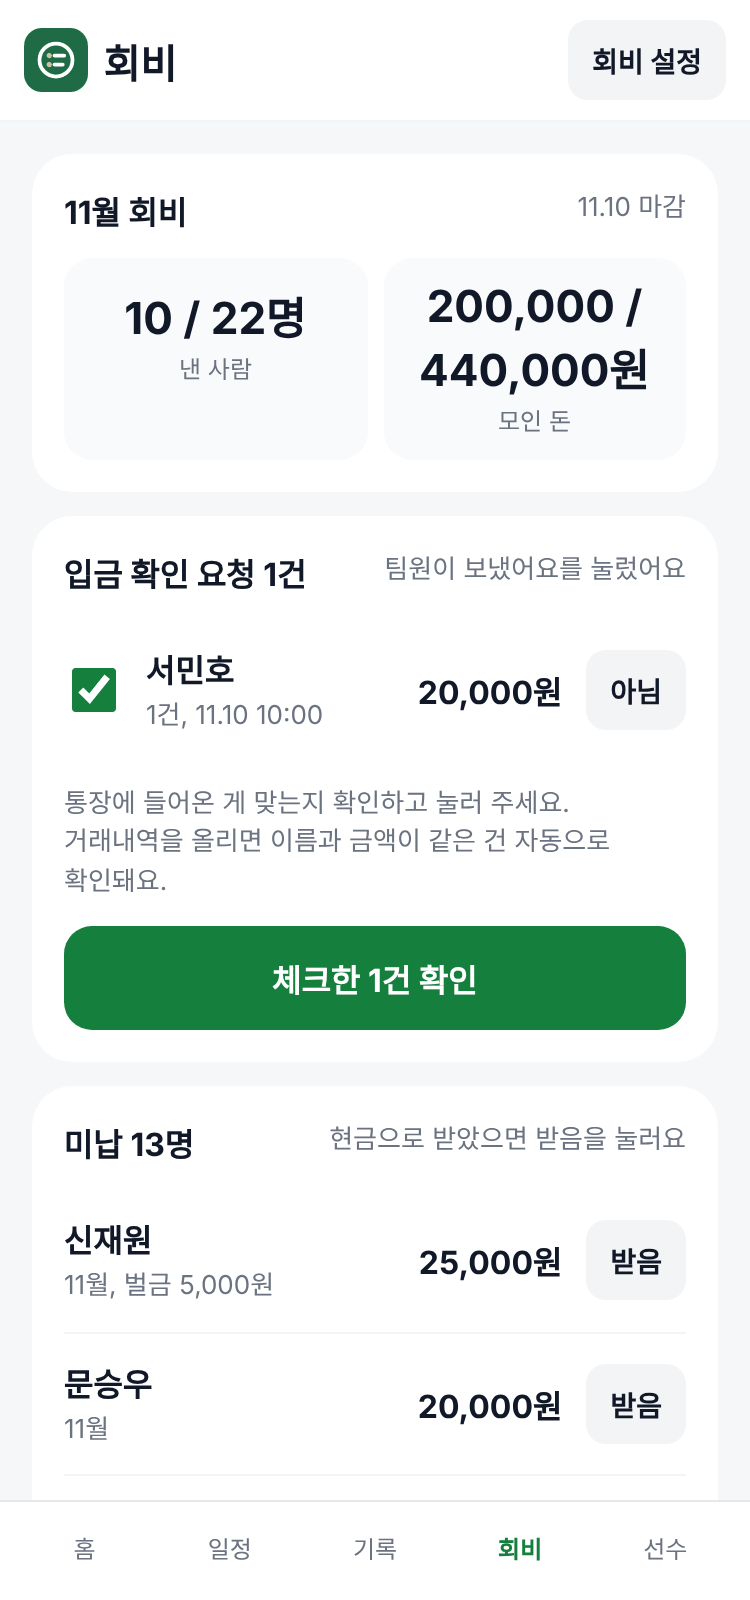
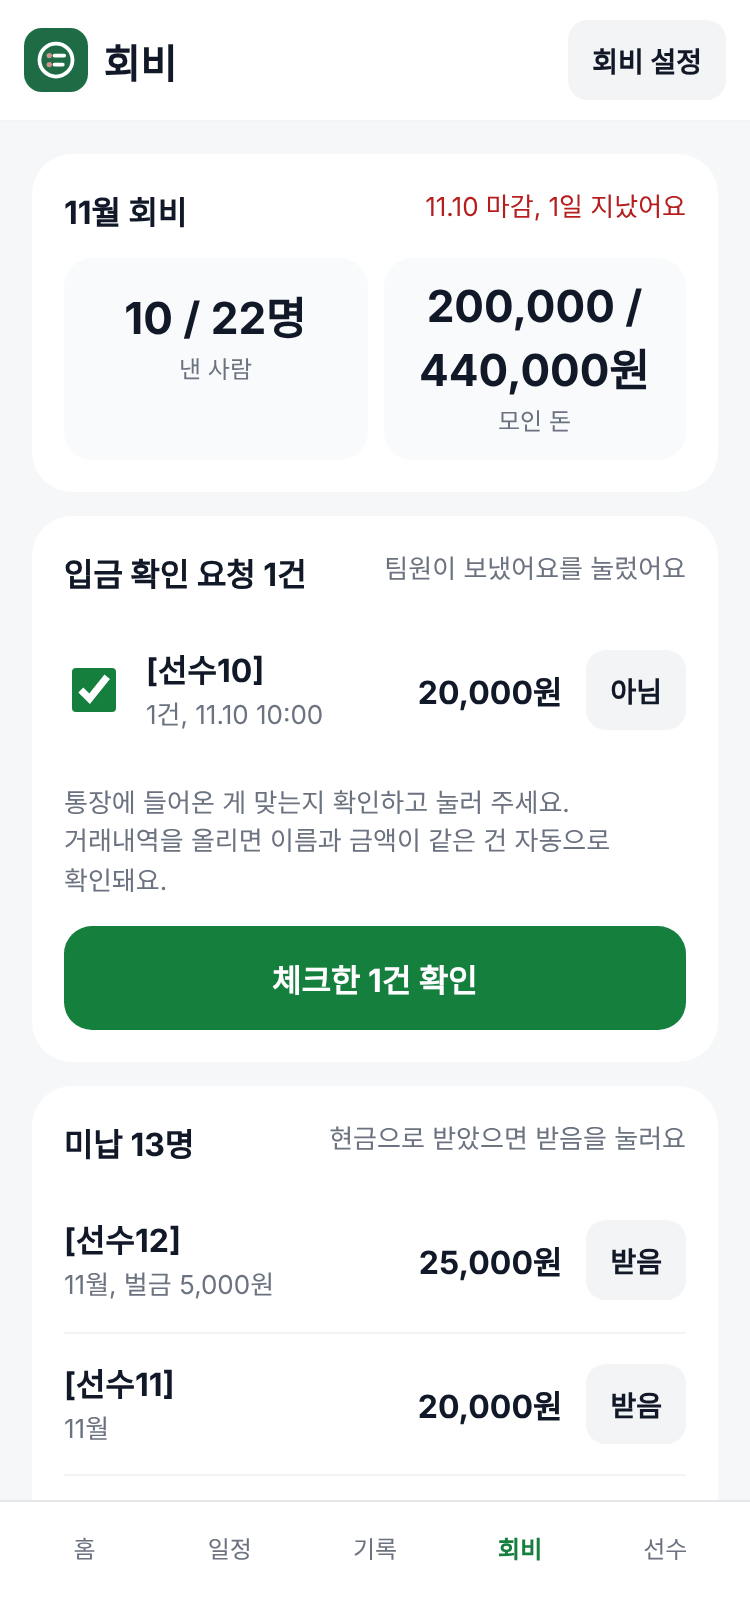
홈페이지 사진을 가상 이름([선수1] 등), 가상 팀([상대팀A] 등), 가상 구장으로 다시 찍음. 동그라미 글자는 기호를 건너뛰고, 라인업은 등번호로 표시
Claude-Session: https://claude.ai/code/session_016quS1fhVgtMJVUxVg1GyD3

diff --git a/v2/team/admin.js b/v2/team/admin.js
@@ -1,6 +1,6 @@
 // 운영진 화면: 디자인 시안 [운영진] 1-1 ~ 5-9. 팀원 화면은 member.js에 있다.
 import { mCalendar } from "./member.js";
-import { $, D, KIT, LOGO, POS, ROLE, S, UI, att, cameTo, closeSheet, closeText, confirmBox, dotDate, esc, evName, evStart, eventCard, fail, feeMode, finesOf, guestReqs, guestsOf, isAdmin, isPlay, jersey, joinedOf, lateRow, mLabel, md, momClosed, momDeadline, momOpen, momWinners, monthsList, myProfile, myUv, myVote, nameOf, nav, noticeCard, noticesList, paidOf, parseRoster, past, patchDoc, people, refreshMembers, remindInfo, render, ruleAmt, sb, scrimReady, setDoc, sheet, sport, started, syncMyDues, toast, todayStr, top, uid36, unclaimed, upcoming, voteRow, voteState, wd, won, ym } from "./main.js";
+import { $, D, KIT, LOGO, POS, ROLE, S, UI, att, cameTo, closeSheet, closeText, confirmBox, dotDate, esc, evName, evStart, eventCard, fail, feeMode, finesOf, guestReqs, guestsOf, ini, isAdmin, isPlay, jersey, joinedOf, lateRow, mLabel, md, momClosed, momDeadline, momOpen, momWinners, monthsList, myProfile, myUv, myVote, nameOf, nav, noticeCard, noticesList, paidOf, parseRoster, past, patchDoc, people, refreshMembers, remindInfo, render, ruleAmt, sb, scrimReady, setDoc, sheet, sport, started, syncMyDues, toast, todayStr, top, uid36, unclaimed, upcoming, voteRow, voteState, wd, won, ym } from "./main.js";
 
 function homeExtras() {
   const out = [];
@@ -145,16 +145,16 @@ function vPlayers() {
   const dueTag = u => { const o = owedOf(u); return o.months > 1 ? `<span class="tag" style="background:#FEF2F2;color:#B91C1C">${o.months}달 미납</span>` : o.months ? `<span class="tag" style="background:#FEF2F2;color:#B91C1C">${Number(ym().slice(5))}월 미납</span>` : ""; };
   const admins = ps.filter(x => x.role !== "member").sort((a, b) => (a.role === "owner" ? -1 : 1) - (b.role === "owner" ? -1 : 1));
   const num = x => Number(x) || 999; const mem = ps.filter(x => x.role === "member").sort((a, b) => num(a.p.num) - num(b.p.num));
-  const row = x => `<a class="li" href="#/player/${esc(x.uid)}" style="text-decoration:none;color:inherit"><span class="av">${esc(x.name.slice(0, 1))}</span><span style="flex:1;min-width:0"><b>${esc(x.name)}</b> ${x.role !== "member" ? `<span class="tag">${ROLE[x.role]}</span>` : ""} ${dueTag(x.uid)}${x.uid === S.uid ? ` <span class="hint">나</span>` : ""}<br><span class="hint">${esc([x.p.num ? x.p.num + "번" : "", x.p.pos1, "출석 " + attN(x.uid) + "/" + evs.length].filter(Boolean).join(", "))}</span></span><span class="hint">›</span></a>`;
+  const row = x => `<a class="li" href="#/player/${esc(x.uid)}" style="text-decoration:none;color:inherit"><span class="av">${esc(ini(x.name))}</span><span style="flex:1;min-width:0"><b>${esc(x.name)}</b> ${x.role !== "member" ? `<span class="tag">${ROLE[x.role]}</span>` : ""} ${dueTag(x.uid)}${x.uid === S.uid ? ` <span class="hint">나</span>` : ""}<br><span class="hint">${esc([x.p.num ? x.p.num + "번" : "", x.p.pos1, "출석 " + attN(x.uid) + "/" + evs.length].filter(Boolean).join(", "))}</span></span><span class="hint">›</span></a>`;
   const posReqs = ps.filter(x => ((S.rsvp[x.uid] || {}).posReq || {}).status === "req"); const admReqs = S.role === "owner" ? S.members.filter(m => m.admin_req && m.role === "member") : [];
   const rules = S.settings.rules || []; const un = unclaimed();
   return `<header class="top" style="padding:10px 12px">${LOGO(32)}<h1 style="font-size:20px;font-weight:900">선수</h1><a class="btn sm pri" href="#/invite">+ 초대</a></header><div class="body">
     ${tilesA([tileA(ps.length + un.length + "명", "전체"), tileA(admins.length + "명", "운영진"), tileA(low.length + "명", "출석 절반 이하", "#B45309")])}
     <a class="card" href="#/uniform" style="text-decoration:none;color:inherit;flex-direction:row;align-items:center;gap:14px">${jersey(64, (myProfile() || {}).num || "7", S.settings.uniformColor)}<span style="flex:1"><b>팀 유니폼</b><br><span class="hint">팀원 선수 카드에 등번호와 같이 보여요</span></span><span class="btn sm">바꾸기</span></a>
-    ${posReqs.length + admReqs.length ? `<div class="card"><b>요청 ${posReqs.length + admReqs.length}건</b>${posReqs.map(x => { const r = S.rsvp[x.uid].posReq; return `<div style="display:flex;flex-direction:column;gap:8px;border-top:1px solid #F3F4F6;padding-top:10px"><div class="row" style="gap:10px"><span class="av">${esc(x.name.slice(0, 1))}</span><span style="flex:1"><b>${esc(x.name)}</b> <span class="hint">포지션 변경 요청</span><br><span class="hint">${esc((x.p.pos1 || "-") + "에서 " + [r.pos1, r.pos2].filter(Boolean).join(", ") + (r.note ? ", " + r.note : ""))}</span></span></div><div class="row"><button class="btn block" data-act="posNo" data-u="${esc(x.uid)}">거절</button><button class="btn pri block" data-act="posOk" data-u="${esc(x.uid)}">수락</button></div></div>`; }).join("")}${admReqs.map(m => `<div style="display:flex;flex-direction:column;gap:8px;border-top:1px solid #F3F4F6;padding-top:10px"><div class="row" style="gap:10px"><span class="av">${esc(nameOf(m.user_id).slice(0, 1))}</span><span style="flex:1"><b>${esc(nameOf(m.user_id))}</b> <span class="hint">운영진 신청</span><br><span class="hint">팀장만 수락할 수 있어요</span></span></div><div class="row"><button class="btn block" data-act="adminAns" data-u="${esc(m.user_id)}" data-ok="">거절</button><button class="btn pri block" data-act="adminAns" data-u="${esc(m.user_id)}" data-ok="1">수락</button></div></div>`).join("")}</div>` : ""}
+    ${posReqs.length + admReqs.length ? `<div class="card"><b>요청 ${posReqs.length + admReqs.length}건</b>${posReqs.map(x => { const r = S.rsvp[x.uid].posReq; return `<div style="display:flex;flex-direction:column;gap:8px;border-top:1px solid #F3F4F6;padding-top:10px"><div class="row" style="gap:10px"><span class="av">${esc(ini(x.name))}</span><span style="flex:1"><b>${esc(x.name)}</b> <span class="hint">포지션 변경 요청</span><br><span class="hint">${esc((x.p.pos1 || "-") + "에서 " + [r.pos1, r.pos2].filter(Boolean).join(", ") + (r.note ? ", " + r.note : ""))}</span></span></div><div class="row"><button class="btn block" data-act="posNo" data-u="${esc(x.uid)}">거절</button><button class="btn pri block" data-act="posOk" data-u="${esc(x.uid)}">수락</button></div></div>`; }).join("")}${admReqs.map(m => `<div style="display:flex;flex-direction:column;gap:8px;border-top:1px solid #F3F4F6;padding-top:10px"><div class="row" style="gap:10px"><span class="av">${esc(ini(nameOf(m.user_id)))}</span><span style="flex:1"><b>${esc(nameOf(m.user_id))}</b> <span class="hint">운영진 신청</span><br><span class="hint">팀장만 수락할 수 있어요</span></span></div><div class="row"><button class="btn block" data-act="adminAns" data-u="${esc(m.user_id)}" data-ok="">거절</button><button class="btn pri block" data-act="adminAns" data-u="${esc(m.user_id)}" data-ok="1">수락</button></div></div>`).join("")}</div>` : ""}
     <div class="card"><div class="spread"><b>운영진 ${admins.length}명</b></div><div class="list">${admins.map(row).join("")}</div></div>
     <div class="card"><div class="spread"><b>팀원 ${mem.length}명</b></div><div class="list">${mem.map(row).join("")}</div></div>
-    ${un.length ? `<div class="card"><div class="spread"><b>가입 전 ${un.length}명</b><span class="hint">초대 링크로 들어와 이름을 고르면 연결돼요</span></div><div class="list">${un.map(p => `<div class="li" data-act="rosterOpen" data-pid="${esc(p.id)}" role="button" tabindex="0" style="cursor:pointer"><span class="av" style="background:#F3F4F6;color:#6B7280">${esc(p.name.slice(0, 1))}</span><span style="flex:1"><b>${esc(p.name)}</b><br><span class="hint">${esc([p.num ? p.num + "번" : "", p.pos1, p.pos2].filter(Boolean).join(", "))}</span></span><span class="tag gray">가입 전</span></div>`).join("")}</div></div>` : ""}
+    ${un.length ? `<div class="card"><div class="spread"><b>가입 전 ${un.length}명</b><span class="hint">초대 링크로 들어와 이름을 고르면 연결돼요</span></div><div class="list">${un.map(p => `<div class="li" data-act="rosterOpen" data-pid="${esc(p.id)}" role="button" tabindex="0" style="cursor:pointer"><span class="av" style="background:#F3F4F6;color:#6B7280">${esc(ini(p.name))}</span><span style="flex:1"><b>${esc(p.name)}</b><br><span class="hint">${esc([p.num ? p.num + "번" : "", p.pos1, p.pos2].filter(Boolean).join(", "))}</span></span><span class="tag gray">가입 전</span></div>`).join("")}</div></div>` : ""}
     <a class="btn" href="#/roster-import">명단 붙여 넣어 한 번에 등록</a>
     <div class="card"><div class="spread"><b>우리 팀 수칙</b><a class="btn sm" href="#/rules-edit">수정</a></div>${rules.length ? `<div class="list">${rules.map(r => `<div class="li"><span style="flex:1">${esc(r.label)}</span>${Number(r.amount) ? `<b>${won(r.amount)}</b>` : `<span class="hint">글 수칙</span>`}</div>`).join("")}</div>` : `<span class="hint">아직 정한 수칙이 없어요.</span>`}</div>
     <div class="card"><div class="row" style="justify-content:space-between"><a class="btn sm" href="#/settings">팀 설정</a><span class="row"><button class="btn sm" data-act="switchTeam">다른 팀, 새 팀</button><button class="btn sm" data-act="logout">로그아웃</button></span></div><a class="hint" href="../../privacy.html">개인정보처리방침과 이용약관</a></div>
@@ -397,7 +397,7 @@ function vGuests(id) {
   return `${top("용병 신청", "#/event/" + id)}<div class="body">
     <div class="card"><div class="spread"><span><b>${esc(md(e.date) + " " + wd(e.date) + " " + (e.time || "") + " " + evName(e))}</b></span>${left != null ? `<span class="tag ${left ? "" : "gray"}">남은 자리 ${left}</span>` : ""}</div></div>
     <b>확인할 신청 ${reqs.filter(g => g.status === "req").length}건</b>
-    ${reqs.filter(g => g.status === "req").map(g => `<div class="card"><div class="row" style="gap:12px"><span class="av">${esc(g.name.slice(0, 1))}</span><span style="flex:1"><b>${esc(g.name)}</b> <span class="tag gray">용병</span><br><span class="hint">${esc([nameOf(g.u) + " 신청", g.rel, g.pos, ago(g.at)].filter(Boolean).join(", "))}</span></span></div><div class="row"><button class="btn block" data-act="guestNo" data-u="${esc(g.u)}" data-k="${esc(g.k)}">거절</button><button class="btn pri block" data-act="guestOk" data-eid="${esc(e.id)}" data-u="${esc(g.u)}" data-k="${esc(g.k)}">수락</button></div></div>`).join("") || `<div class="card empty"><b>확인할 신청이 없어요</b></div>`}
+    ${reqs.filter(g => g.status === "req").map(g => `<div class="card"><div class="row" style="gap:12px"><span class="av">${esc(ini(g.name))}</span><span style="flex:1"><b>${esc(g.name)}</b> <span class="tag gray">용병</span><br><span class="hint">${esc([nameOf(g.u) + " 신청", g.rel, g.pos, ago(g.at)].filter(Boolean).join(", "))}</span></span></div><div class="row"><button class="btn block" data-act="guestNo" data-u="${esc(g.u)}" data-k="${esc(g.k)}">거절</button><button class="btn pri block" data-act="guestOk" data-eid="${esc(e.id)}" data-u="${esc(g.u)}" data-k="${esc(g.k)}">수락</button></div></div>`).join("") || `<div class="card empty"><b>확인할 신청이 없어요</b></div>`}
     ${gs.length ? `<div class="card"><div class="spread"><b>명단에 든 용병</b><span class="hint">${gs.length}명</span></div><div class="list">${gs.map(g => `<div class="li"><span style="flex:1"><b>${esc(g.name)}</b><br><span class="hint">${esc([g.pos, g.by ? nameOf(g.by) + " 지인" : "운영진 추가"].filter(Boolean).join(", "))}</span></span><button class="iconbtn" data-act="guestDel" data-eid="${esc(e.id)}" data-g="${esc(g.id)}" aria-label="빼기">✕</button></div>`).join("")}</div></div>` : ""}
     <span class="hint">수락하면 참석 명단에 용병으로 들어가고 신청한 팀원 알림함에 보여요.${fee ? ` 참가비 ${won(fee)}은 현장 출석에서 받아요.` : ""}</span>
     <button class="btn" data-act="aGuestAdd" data-eid="${esc(e.id)}">운영진이 직접 추가하기</button>
@@ -571,7 +571,7 @@ function vPlayerAdmin(u) {
   const o = owedOf(u); const j = joinedOf(u); const owner = S.role === "owner";
   const hist = []; if (feeMode() === "monthly") monthsList().slice(0, 4).forEach(m => hist.push([mLabel(m) + " 회비", paidOf("m-" + m, u)])); finesOf(u).slice(0, 4).forEach(f => hist.push([(f.reason || "벌금") + " 벌금 " + md(f.date || todayStr()), !!f.paid]));
   return `${top("선수 정보", "#/players")}<div class="body">
-    <div class="card" style="align-items:center;text-align:center"><span class="av" style="width:72px;height:72px;font-size:28px">${esc(x.name.slice(0, 1))}</span><b style="font-size:22px">${esc(x.name)} <span class="tag">${ROLE[x.role]}</span></b>${o.months ? `<span class="tag" style="background:#FEF2F2;color:#B91C1C">${o.months > 1 ? o.months + "달" : Number(ym().slice(5)) + "월"} 미납</span>` : ""}<span class="hint">${esc([x.p.num ? x.p.num + "번" : "", x.p.pos1, x.p.foot].filter(Boolean).join(", "))}</span>${j ? `<span class="hint">${j.slice(0, 4)}년 ${Number(j.slice(5, 7))}월에 들어왔어요</span>` : ""}</div>
+    <div class="card" style="align-items:center;text-align:center"><span class="av" style="width:72px;height:72px;font-size:28px">${esc(ini(x.name))}</span><b style="font-size:22px">${esc(x.name)} <span class="tag">${ROLE[x.role]}</span></b>${o.months ? `<span class="tag" style="background:#FEF2F2;color:#B91C1C">${o.months > 1 ? o.months + "달" : Number(ym().slice(5)) + "월"} 미납</span>` : ""}<span class="hint">${esc([x.p.num ? x.p.num + "번" : "", x.p.pos1, x.p.foot].filter(Boolean).join(", "))}</span>${j ? `<span class="hint">${j.slice(0, 4)}년 ${Number(j.slice(5, 7))}월에 들어왔어요</span>` : ""}</div>
     <div class="card"><div class="spread"><b>이번 시즌</b><a class="hint" href="#/records" style="text-decoration:none">기록 보기 ›</a></div>${tilesA([tileA(n + "/" + evs.length, "출석"), tileA(late, "지각", "#B45309"), tileA(abs, "무단 결석", "#B91C1C")])}${streak >= 3 ? `<span class="hint" style="color:#B45309">최근 ${streak}번 연속 불참이에요</span>` : ""}</div>
     <div class="card"><div class="spread"><b>회비와 벌금</b><a class="hint" href="#/dues" style="text-decoration:none">회비에서 보기 ›</a></div>${hist.length ? `<div class="list">${hist.map(([l, p]) => `<div class="li"><span style="flex:1">${esc(l)}</span><span class="tag ${p ? "" : "gray"}" style="${p ? "" : "background:#FEF2F2;color:#B91C1C"}">${p ? "납부" : "미납"}</span></div>`).join("")}</div>` : `<span class="hint">기록이 없어요.</span>`}${o.total ? `<div class="spread"><span>밀린 돈</span><b style="color:#B91C1C">${won(o.total)}</b></div><button class="btn sm" data-act="aCash" data-u="${esc(u)}" style="align-self:flex-start">현금으로 받음</button>` : ""}</div>
     <div class="card"><b>포지션</b><div class="field"><span class="hint">1선호</span><div class="chips">${POS[sport()].map(p => `<button class="chip sm ${x.p.pos1 === p ? "on" : ""}" data-act="aSetPos" data-u="${esc(u)}" data-k="pos1" data-v="${p}">${p}</button>`).join("")}</div></div><div class="field"><span class="hint">2선호</span><div class="chips">${POS[sport()].filter(p => p !== x.p.pos1).map(p => `<button class="chip sm ${x.p.pos2 === p ? "on" : ""}" data-act="aSetPos" data-u="${esc(u)}" data-k="pos2" data-v="${p}">${p}</button>`).join("")}</div></div><span class="hint">누르면 바로 바뀌고 다음 라인업부터 반영돼요</span></div>

diff --git a/v2/team/member.js b/v2/team/member.js
@@ -1,6 +1,6 @@
 // 팀원 화면: 디자인 시안 [팀원] 1-1 ~ 5-5를 그대로 따른다. 운영진 기능은 이 파일에 두지 않는다.
 // 운영진도 "팀원 화면 보기"를 누르면 이 화면으로 자기 참석과 선수 카드를 본다.
-import { $, D, LOGO, POS, QN, ROLE, S, UI, att, cameTo, closeSheet, closeText, confirmBox, esc, evName, evStart, fail, feeMode, guestReqs, guestsOf, isAdmin, isPlay, jersey, joinedOf, mLabel, md, momClosed, momDeadline, momOpen, momWinners, myProfile, myUv, myVote, nameOf, nav, noticesList, past, patchDoc, people, qs, remindInfo, render, ruleKind, sb, setView, sheet, sport, started, toast, todayStr, top, uid36, unclaimed, upcoming, voteState, wd, won, ym } from "./main.js";
+import { $, D, LOGO, POS, QN, ROLE, S, UI, att, cameTo, closeSheet, closeText, confirmBox, esc, evName, evStart, fail, feeMode, guestReqs, guestsOf, ini, isAdmin, isPlay, jersey, joinedOf, mLabel, md, momClosed, momDeadline, momOpen, momWinners, myProfile, myUv, myVote, nameOf, nav, noticesList, past, patchDoc, people, qs, remindInfo, render, ruleKind, sb, setView, sheet, sport, started, toast, todayStr, top, uid36, unclaimed, upcoming, voteState, wd, won, ym } from "./main.js";
 
 /* ---------- 공통 계산 ---------- */
 const MU = { cal: false, day: "", change: "", season: "", filter: "all" };
@@ -253,7 +253,7 @@ function mGame(id) {
   return `${top(md(e.date) + " " + evName(e), "#/records")}<div class="body">
     <div class="card" style="align-items:center;text-align:center;gap:8px">${typeTag(e)}<span class="hint">${esc(md(e.date) + " " + wd(e.date) + ", " + (e.place || ""))}</span>
       ${e.score ? `<div style="display:grid;grid-template-columns:1fr auto 1fr;align-items:center;gap:8px;width:100%"><b style="text-align:right">${e.type === "scrim" ? "A팀" + (sideOf(e, u) === "A" ? " (내 팀)" : "") : esc(S.team.name)}</b><b style="font-size:40px;letter-spacing:-1px">${e.score.us} : ${e.score.them}</b><b style="text-align:left">${e.type === "scrim" ? "B팀" + (sideOf(e, u) === "B" ? " (내 팀)" : "") : esc(e.opponent || "상대")}</b></div><span class="tag" style="font-size:13px">${resultWord(e)}</span>` : isPlay(e) ? `<b>결과를 기다리고 있어요</b><span class="hint">운영진이 결과를 올리면 MOM 투표가 열리고 알림으로 알려 드려요</span>` : `<b>훈련</b>`}</div>
-    ${win.length ? `<div class="card" style="flex-direction:row;align-items:center;gap:12px"><span class="av" style="background:#FEF3C7;color:#B45309">${esc(nameOf(win[0]).slice(0, 1))}</span><span style="flex:1"><span class="hint">MOM</span><br><b style="font-size:18px">${win.map(x => esc(nameOf(x))).join(", ")}</b></span><span class="hint">${came.length}명 중 ${(t.c || {})[win[0]] || 0}표</span></div>` : ""}
+    ${win.length ? `<div class="card" style="flex-direction:row;align-items:center;gap:12px"><span class="av" style="background:#FEF3C7;color:#B45309">${esc(ini(nameOf(win[0])))}</span><span style="flex:1"><span class="hint">MOM</span><br><b style="font-size:18px">${win.map(x => esc(nameOf(x))).join(", ")}</b></span><span class="hint">${came.length}명 중 ${(t.c || {})[win[0]] || 0}표</span></div>` : ""}
     ${momOpen(e) && iCame ? (my ? `<div class="card"><b>MOM 투표를 냈어요</b><span class="hint">다음 날 12시에 마감돼요. 결과는 마감 뒤에 보여요.</span></div>` : `<div class="card"><b>오늘의 MOM을 골라 주세요</b><span class="hint">익명이에요. 한 번 내면 바꿀 수 없어요.</span><div class="chips">${came.filter(x => x.uid !== u).map(x => `<button class="chip ${UI.mom === x.uid ? "on" : ""}" data-act="momPick" data-u="${esc(x.uid)}">${esc(x.name)}</button>`).join("")}</div><button class="btn pri" data-act="momSend" data-eid="${esc(e.id)}" ${UI.mom ? "" : "disabled"}>투표하기</button></div>`) : ""}
     ${iCame ? `<div class="card"><b>내 기록</b><span class="chips" style="gap:6px">${[chipT(myQ.length ? "출전 " + myQ.length + "쿼터" : "출석"), goals[u] ? chipT(goals[u] + "골", "green") : "", chipT(late ? "지각" : "정시 도착", late ? "amber" : "green"), chipT(fine ? "벌금 " + won(fine.amount) + (fine.paid ? " 납부" : " 미납") : "벌금 없음", fine && !fine.paid ? "amber" : "green")].join("")}</span>
       ${isPlay(e) ? `<span class="lab">쿼터별 출전</span><div style="display:grid;grid-template-columns:repeat(${qn},minmax(0,1fr));gap:4px">${Array.from({ length: qn }, (_, i) => i + 1).map(k => `<span style="text-align:center;border-radius:8px;padding:8px 0;font-size:13px;font-weight:700;${myQ.includes(k) ? "background:#15803D;color:#FFFFFF" : "background:#F3F4F6;color:#9CA3AF"}">${k}Q</span>`).join("")}</div>${e.lineup ? "" : `<span class="hint">라인업이 없는 경기라 쿼터 기록이 없어요</span>`}` : ""}</div>`
@@ -313,11 +313,11 @@ function mPlayers() {
   const me = myProfile() || {}; const st = myStats(S.uid, todayStr().slice(0, 4)); const req = (S.rsvp[S.uid] || {}).posReq;
   const ps = people(); const admins = ps.filter(x => x.role !== "member"); const mem = ps.filter(x => x.role === "member").map(x => ({ ...x, kind: "m" })).concat(unclaimed().map(p => ({ kind: "p", uid: "", pid: p.id, name: p.name, role: "member", p })));
   const num = x => Number(x) || 999; mem.sort((a, b) => num(a.p.num) - num(b.p.num)); admins.sort((a, b) => (a.role === "owner" ? -1 : 0) - (b.role === "owner" ? -1 : 0));
-  const row = x => x.kind === "p" ? `<div class="li"><span class="av" style="background:#F3F4F6;color:#6B7280">${esc(x.name.slice(0, 1))}</span><span style="flex:1"><b>${esc(x.name)}</b><br><span class="hint">${esc([x.p.num ? x.p.num + "번" : "", x.p.pos1].filter(Boolean).join(", "))}</span></span><span class="tag gray">가입 전</span></div>`
-    : `<a class="li" href="#/player/${esc(x.uid)}" style="text-decoration:none;color:inherit"><span class="av">${esc(x.name.slice(0, 1))}</span><span style="flex:1"><b>${esc(x.name)}</b>${x.uid === S.uid ? ` <span class="hint">나</span>` : ""}${x.role !== "member" ? ` <span class="tag">${ROLE[x.role]}</span>` : ""}<br><span class="hint">${esc([x.p.num ? x.p.num + "번" : "", x.p.pos1, x.p.foot].filter(Boolean).join(", "))}</span></span><span class="hint">›</span></a>`;
+  const row = x => x.kind === "p" ? `<div class="li"><span class="av" style="background:#F3F4F6;color:#6B7280">${esc(ini(x.name))}</span><span style="flex:1"><b>${esc(x.name)}</b><br><span class="hint">${esc([x.p.num ? x.p.num + "번" : "", x.p.pos1].filter(Boolean).join(", "))}</span></span><span class="tag gray">가입 전</span></div>`
+    : `<a class="li" href="#/player/${esc(x.uid)}" style="text-decoration:none;color:inherit"><span class="av">${esc(ini(x.name))}</span><span style="flex:1"><b>${esc(x.name)}</b>${x.uid === S.uid ? ` <span class="hint">나</span>` : ""}${x.role !== "member" ? ` <span class="tag">${ROLE[x.role]}</span>` : ""}<br><span class="hint">${esc([x.p.num ? x.p.num + "번" : "", x.p.pos1, x.p.foot].filter(Boolean).join(", "))}</span></span><span class="hint">›</span></a>`;
   const rules = S.settings.rules || []; const agreed = (S.rsvp[S.uid] || {}).agreedAt;
   return `<header class="top" style="padding:10px 12px">${LOGO(32)}<h1 style="font-size:20px;font-weight:900">선수</h1><span class="hint">${ps.length + unclaimed().length}명</span></header><div class="body">
-    <div class="card"><div class="row" style="gap:12px"><span class="av" style="width:56px;height:56px;font-size:22px">${esc((me.name || nameOf(S.uid)).slice(0, 1))}</span><span style="flex:1"><b style="font-size:18px">${esc(me.name || nameOf(S.uid))}</b> <span class="tag">${ROLE[S.role] || "팀원"}</span><br><span class="hint">${esc([me.num ? me.num + "번" : "", me.pos1, me.foot].filter(Boolean).join(", "))}</span></span></div>
+    <div class="card"><div class="row" style="gap:12px"><span class="av" style="width:56px;height:56px;font-size:22px">${esc(ini(me.name || nameOf(S.uid)))}</span><span style="flex:1"><b style="font-size:18px">${esc(me.name || nameOf(S.uid))}</b> <span class="tag">${ROLE[S.role] || "팀원"}</span><br><span class="hint">${esc([me.num ? me.num + "번" : "", me.pos1, me.foot].filter(Boolean).join(", "))}</span></span></div>
       <div class="stat"><span><b>${st.mine}/${st.n}</b><span>출석</span></span><span><b>${st.goals}골</b><span>이번 시즌</span></span><span><b style="color:#B45309">${st.mom}</b><span>MOM</span></span></div>
       ${req && req.status === "req" ? `<div style="background:#EEF2FF;border-radius:12px;padding:10px 12px;font-size:13px;color:#3730A3"><b>포지션 변경 요청 중</b> ${esc(me.pos1 || "")}에서 ${esc([req.pos1, req.pos2].filter(Boolean).join(", "))}, 운영진 확인 전</div>` : ""}
       <div class="row"><a class="btn block" href="#/me">프로필 수정</a><a class="btn block" href="#/posreq">포지션 변경 요청</a></div>
@@ -333,7 +333,7 @@ function mPlayer(u) {
   const x = people().find(p => p.uid === u); if (!x) return mPlayers(); const st = myStats(u, todayStr().slice(0, 4)); const j = joinedOf(u);
   const recent = seasonEvents(todayStr().slice(0, 4)).filter(isPlay).slice(0, 5);
   return `${top("선수 정보", "#/players")}<div class="body">
-    <div class="card" style="align-items:center;text-align:center"><span class="av" style="width:72px;height:72px;font-size:28px">${esc(x.name.slice(0, 1))}</span><b style="font-size:22px">${esc(x.name)} <span class="tag">${ROLE[x.role]}</span></b><span class="hint">${esc([x.p.num ? x.p.num + "번" : "", x.p.pos1, x.p.pos2, x.p.foot].filter(Boolean).join(", "))}</span>${j ? `<span class="hint">${j.slice(0, 4)}년 ${Number(j.slice(5, 7))}월에 들어왔어요</span>` : ""}</div>
+    <div class="card" style="align-items:center;text-align:center"><span class="av" style="width:72px;height:72px;font-size:28px">${esc(ini(x.name))}</span><b style="font-size:22px">${esc(x.name)} <span class="tag">${ROLE[x.role]}</span></b><span class="hint">${esc([x.p.num ? x.p.num + "번" : "", x.p.pos1, x.p.pos2, x.p.foot].filter(Boolean).join(", "))}</span>${j ? `<span class="hint">${j.slice(0, 4)}년 ${Number(j.slice(5, 7))}월에 들어왔어요</span>` : ""}</div>
     <div class="card"><span class="hint">이번 시즌</span><div class="stat"><span><b>${st.mine}/${st.n}</b><span>출석</span></span><span><b>${st.goals}골</b><span>득점</span></span><span><b style="color:#B45309">${st.mom}</b><span>MOM</span></span></div></div>
     <div class="card"><b>최근 경기</b>${recent.length ? `<div class="list">${recent.map(e => { const g = (e.goals || []).filter(z => z.uid === u).length; const mom = momClosed(e) && momWinners(e).includes(u); return `<a class="li" href="#/game/${esc(e.id)}" style="text-decoration:none;color:inherit"><span style="flex:1"><b>${md(e.date)} ${evName(e)}</b><br><span class="hint">${esc(e.place || "")}</span></span><span class="hint">${cameTo(e, u) ? [e.type === "scrim" && sideOf(e, u) ? sideOf(e, u) + "팀" : "출전", g ? g + "골" : "", mom ? "MOM" : ""].filter(Boolean).join(", ") : "불참"}</span></a>`; }).join("")}</div>` : `<span class="hint">아직 경기가 없어요.</span>`}</div>
     <span class="hint" style="text-align:center">회비와 벌금은 운영진만 볼 수 있어요.</span>

diff --git a/v2/team/main.js b/v2/team/main.js
@@ -154,6 +154,8 @@ const myVote = e => (((S.rsvp[S.uid] || {}).ev || {})[e.id]) || {};
 function closeAt(e) { if (e.voteClose === "eve21") return new Date(e.date + "T21:00:00+09:00").getTime() - 864e5; if (e.voteClose === "day06") return new Date(e.date + "T06:00:00+09:00").getTime(); return evStart(e); }
 const voteState = e => started(e) ? "done" : (e.openAt && Date.now() < Date.parse(e.openAt)) ? "soon" : Date.now() >= closeAt(e) ? "closed" : "open";
 const closeText = e => e.voteClose === "eve21" ? "경기 전날 21:00 마감" : e.voteClose === "day06" ? "경기 당일 06:00 마감" : "경기 시작 전까지";
+// 동그라미 안 글자: 괄호 같은 기호는 건너뛴다
+const ini = n => (String(n || "").replace(/[^0-9A-Za-z\uAC00-\uD7A3]/g, "")[0] || "?");
 const upcoming = () => Object.values(S.events).filter(e => !started(e) || (Date.now() - evStart(e)) < 3 * 3600e3).sort((a, b) => evStart(a) - evStart(b));
 const past = () => Object.values(S.events).filter(e => started(e)).sort((a, b) => evStart(b) - evStart(a));
 
@@ -447,7 +449,7 @@ function vLineup(id) {
   const fkey = (L && L.fkey) || Object.keys(FORMS[sport()])[0]; const a = att(e);
   const rows = [4, 3, 2, 1, 0].map(ln => (L ? L.formation : []).map((pos, i) => ({ pos, i })).filter(x => LINE(x.pos) === ln)).filter(r => r.length);
   const spot = x => { const u = q[x.i]; const sel = UI.sel === x.i; const me = u === S.uid;
-    return `<button ${edit ? `data-act="lineSpot" data-i="${x.i}"` : "disabled"} style="border:0;background:none;color:#FFFFFF;display:flex;flex-direction:column;align-items:center;gap:4px;min-width:60px;opacity:1"><span style="width:44px;height:44px;border-radius:50%;display:inline-flex;align-items:center;justify-content:center;font-weight:900;font-size:15px;${sel ? "background:#F5B841;color:#1E6B45" : me ? "background:#F5B841;color:#1E6B45" : "background:#FFFFFF;color:#1E6B45"}">${esc(nm(u).slice(0, 1) || "+")}</span><span style="font-size:12px;font-weight:700">${esc(x.pos)}</span><span style="font-size:11px;opacity:.9">${esc(nm(u) || "비어 있음")}</span></button>`; };
+    return `<button ${edit ? `data-act="lineSpot" data-i="${x.i}"` : "disabled"} style="border:0;background:none;color:#FFFFFF;display:flex;flex-direction:column;align-items:center;gap:4px;min-width:60px;opacity:1"><span style="width:44px;height:44px;border-radius:50%;display:inline-flex;align-items:center;justify-content:center;font-weight:900;font-size:15px;${sel ? "background:#F5B841;color:#1E6B45" : me ? "background:#F5B841;color:#1E6B45" : "background:#FFFFFF;color:#1E6B45"}">${u ? esc(((u.startsWith("g:") ? "" : (profileOf(u) || {}).num) || ini(nm(u)))) : "+"}</span><span style="font-size:12px;font-weight:700">${esc(x.pos)}</span><span style="font-size:11px;opacity:.9">${esc(nm(u) || "비어 있음")}</span></button>`; };
   return `${top("라인업" + (edit ? " 짜기" : ""), "#/event/" + e.id, edit && L ? `<button class="btn sm pri" data-act="saveLineup" data-eid="${esc(e.id)}">저장</button>` : "")}<div class="body">
     <div class="card" style="gap:6px"><b>${esc(md(e.date) + " " + wd(e.date) + " " + (e.time || "") + " " + evName(e))}</b><span class="hint">참석 ${a.yes.length}명${a.late.length ? ", 늦참 " + a.late.length + "명" : ""}${guestsOf(e).length ? ", 용병 " + guestsOf(e).length + "명" : ""}</span>
       ${edit ? `<button class="btn sm" data-act="lineForm" data-eid="${esc(e.id)}" style="align-self:flex-start">${sport() === "soccer" ? "11대11" : FORMS.futsal[fkey].length + "대" + FORMS.futsal[fkey].length}, ${esc(fkey)} ▾</button>` : ""}</div>
@@ -856,7 +858,7 @@ const ACT = {
   },
   delEvent: t => confirmBox("일정 지우기", "이 일정과 참석 응답이 모두 사라져요. 되돌릴 수 없어요.", "지우기", async () => { try { await delDoc("events", t.dataset.eid); toast("지웠어요"); location.hash = "#/schedule"; } catch (e) { fail(e); } }, true),
   switchTeam: () => {
-    sheet(`<h3>팀 고르기</h3><div class="list">${S.teams.map(t => `<button class="li" style="border:0;background:none;text-align:left;width:100%" data-act="enterTeam" data-id="${esc(t.id)}"><span class="av">${esc(t.name.slice(0, 1))}</span><span style="flex:1"><b>${esc(t.name)}</b><br><span class="hint">${ROLE[t.role] || ""}</span></span></button>`).join("")}</div><a class="btn" href="#" data-act="newTeam">+ 새 팀 만들기</a>`);
+    sheet(`<h3>팀 고르기</h3><div class="list">${S.teams.map(t => `<button class="li" style="border:0;background:none;text-align:left;width:100%" data-act="enterTeam" data-id="${esc(t.id)}"><span class="av">${esc(ini(t.name))}</span><span style="flex:1"><b>${esc(t.name)}</b><br><span class="hint">${ROLE[t.role] || ""}</span></span></button>`).join("")}</div><a class="btn" href="#" data-act="newTeam">+ 새 팀 만들기</a>`);
   },
   enterTeam: async t => { closeSheet(); S.ready = false; render(); await enter(t.dataset.id); },
   newTeam: () => { closeSheet(); startCreate(); },
@@ -955,4 +957,4 @@ function vRest(id) {
 }
 
 // member.js와 admin.js가 같이 쓰는 것
-export { $, D, KIT, LOGO, POS, QN, ROLE, S, UI, att, cameTo, closeSheet, closeText, confirmBox, dotDate, esc, evName, evStart, eventCard, fail, feeMode, finesOf, guestReqs, guestsOf, isAdmin, isPlay, jersey, joinedOf, lateRow, mLabel, md, momClosed, momDeadline, momOpen, momWinners, monthsList, myProfile, myUv, myVote, nameOf, nav, noticeCard, noticesList, paidOf, parseRoster, past, patchDoc, people, qs, refreshMembers, remindInfo, render, ruleAmt, ruleKind, sb, scrimReady, setDoc, setView, sheet, sport, started, syncMyDues, toast, todayStr, top, uid36, unclaimed, upcoming, voteRow, voteState, wd, won, ym };
+export { $, D, KIT, LOGO, POS, QN, ROLE, S, UI, att, cameTo, closeSheet, closeText, confirmBox, dotDate, esc, evName, evStart, eventCard, fail, feeMode, finesOf, guestReqs, guestsOf, ini, isAdmin, isPlay, jersey, joinedOf, lateRow, mLabel, md, momClosed, momDeadline, momOpen, momWinners, monthsList, myProfile, myUv, myVote, nameOf, nav, noticeCard, noticesList, paidOf, parseRoster, past, patchDoc, people, qs, refreshMembers, remindInfo, render, ruleAmt, ruleKind, sb, scrimReady, setDoc, setView, sheet, sport, started, syncMyDues, toast, todayStr, top, uid36, unclaimed, upcoming, voteRow, voteState, wd, won, ym };
